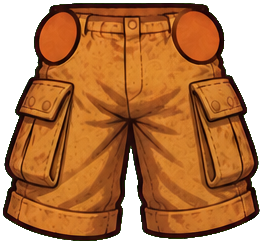
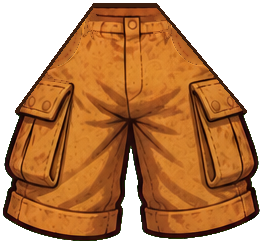
Puppet: hip caps removed from the shorts, arms hang beside the body (rest angles)
Claude-Session: https://claude.ai/code/session_01NK9iDXTyx3wBvzPstrXWEG

Changed region(s): [[0.0608, 0.0, 0.943, 0.459]]

diff --git a/Assets/Scripts/Prototype/HeroRig.cs b/Assets/Scripts/Prototype/HeroRig.cs
@@ -42,6 +42,17 @@ namespace Sheytoonak.Prototype
             },
         };
 
+        /// <summary>
+        /// Rest angle of a joint (degrees, counter-clockwise), where the sheet's piece is not drawn in the standing pose.
+        /// User (2026-11-11) on the second sheet: «جهت دست ها درست نیست» -- its arms were still drawn akimbo with the fist
+        /// in front of the belly; turned here so they hang beside the body like the reference picture.
+        /// </summary>
+        static readonly Dictionary<string, Dictionary<string, float>> Rest = new Dictionary<string, Dictionary<string, float>>
+        {
+            ["abu_shahata"] = new Dictionary<string, float> { ["upper_arm_l"] = 32f, ["forearm_l"] = -67f, ["upper_arm_r"] = -28f, ["forearm_r"] = 67f },
+        };
+        Dictionary<string, float> rest = new Dictionary<string, float>();
+
         public static bool Has(string id) => id != null && Tables.ContainsKey(id) && Resources.Load<Texture2D>("Art/Heroes/" + id + "_rig/torso") != null;
 
         /// <summary>Builds the puppet under <paramref name="painted"/> (hidden from then on). Null if the hero has no rig.</summary>
@@ -64,6 +75,7 @@ namespace Sheytoonak.Prototype
         void Assemble(SpriteRenderer painted, Part[] table, string id)
         {
             host = painted;
+            if (Rest.TryGetValue(id, out var r0)) rest = r0;
             seed = Random.value * 10f;
             flipRoot = new GameObject("Rig").transform;
             flipRoot.SetParent(transform, false);
@@ -94,7 +106,12 @@ namespace Sheytoonak.Prototype
         public bool Kicking => kickT >= 0f && kickT < KickSeconds;
         const float KickSeconds = 0.55f;
 
-        void Rot(string bone, float deg) { if (bones.TryGetValue(bone, out var b)) b.localRotation = Quaternion.Euler(0f, 0f, deg); }
+        void Rot(string bone, float deg)
+        {
+            if (!bones.TryGetValue(bone, out var b)) return;
+            rest.TryGetValue(bone, out float r0);
+            b.localRotation = Quaternion.Euler(0f, 0f, r0 + deg);
+        }
 
         void LateUpdate()
         {

diff --git a/docs/CHANGELOG.fa.md b/docs/CHANGELOG.fa.md
@@ -108,3 +108,4 @@
 - (۲۱ آبان، مرحلهی ۳) أبو شحّاطة اولین قهرمانِ کارتونی شد (کاربر: «آره سبکش خوبه»): `abu_shahata_idle` (پشت، سهرخ)، `abu_shahata_front` (روبهرو، در صفحهی انتخاب)، `abu_shahata_face` (برش از روبهرو). ⚠ نسخهی اولِ پشت شکمِ لخت داشت و روبهرو نه (کاربر گرفت) -- پرامپتِ «belly sticking out» تقصیر بود. قابهایِ دویدن و ضربهی قدیمیاش به `Assets/ArtArchive/Heroes/` رفتند (بیرونِ Resources، در مخزن میمانند) تا سبکِ قدیم وسطِ حرکت پیدا نشود؛ تا رسیدنِ تکههایِ اسکلت (مرحلهی ۴) حرکتش همان جهش و خمِ کدی است.
 - (۲۱ آبان، مرحلهی ۴) أبو شحّاطة عروسکِ مفصلدار شد: برگهی تکهتکهی کاربر به ۱۱ تکه (`Art/Heroes/abu_shahata_rig/`؛ ران و ساق که به هم چسبیده بودند رویِ باریکترین ردیف بریده شدند، رنگِ تیرهی سطحِ برشِ مفصلها به رنگِ پوست نزدیک شد) و `HeroRig.cs`: نفس و تابِ دست در ایستادن، چرخهی راهرفتن (ران، زانو، دست، بالا-پایین) هر وقت جابهجا شود، و ضربه (عقببردن، شلاقِ پا، ادامه). جدولِ مفصلها از رویِ برگه اندازه گرفته شده؛ هر قهرمانِ تازه جدولِ خودش را میخواهد. بقیهی قهرمانها همان تصویرِ تکتکه.
 - (۲۱ آبان) برگهی تکهایِ دوم (کاربر دربارهٔ اولی: «جهت پا، پشت و جلو بودنش، شیوه اتصالش» درست نبود): هر دو پا رو به راست، سرِ گردِ مفصلها، دست و پایِ سمتِ چپِ صفحه «دور» و پشتِ بدن. ⚠ پرامپتِ اولِ این برگه را فیلترِ ChatGPT رد کرد (احتمالاً «پسرِ ۱۱ ساله» + «بدنِ تکهتکه»)؛ نسخهی پذیرفتهشده سن نمیگوید و از «برگهی تکههایِ عروسکِ مقوایی» حرف میزند -- برایِ قهرمانهایِ بعدی همین شکل.
+- (۲۱ آبان) عروسک، دورِ سوم (کاربر: «جای جیب شلوارش دو تا اتصال اضافه است؛ جهت دست ها درست نیست؛ پا و گردن و سر درسته»): دو سرِ گردِ مفصلِ رانِ رویِ گوشههایِ کمرِ شلوارک پاک و لبهی کمر از نو کشیده شد؛ دستها با زاویهی استراحت (`HeroRig.Rest`) کنارِ بدن آویزاناند، نه دستبهکمر با مشتِ جلویِ شکم.
